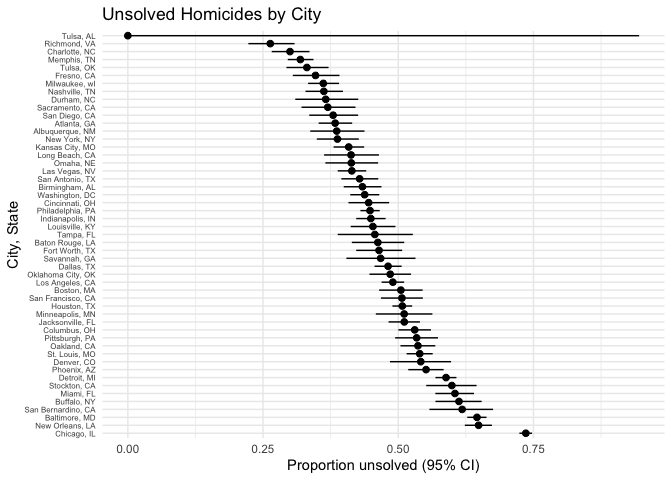
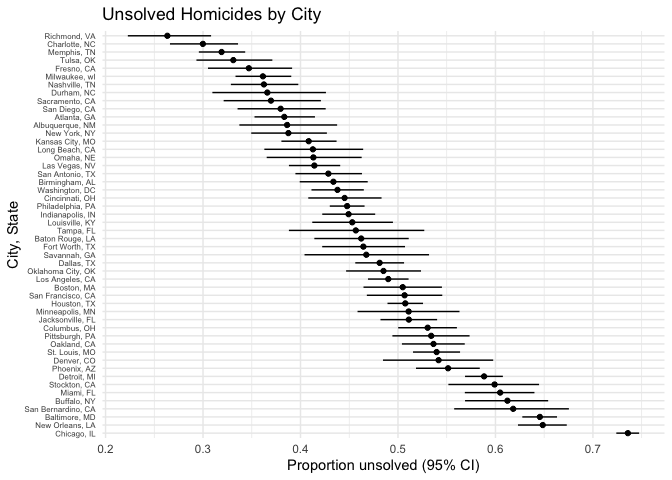
11.14 v1

diff --git a/p8105_hw5_xl3054.md b/p8105_hw5_xl3054.md
@@ -162,7 +162,8 @@ the average is close to the true value.
 
 ``` r
 homicide = read_csv("data/homicide-data.csv") %>% 
-  janitor::clean_names()
+  janitor::clean_names() %>%
+  filter(!(city == "Tulsa" & state == "AL"))
 ```
 
     ## Rows: 52179 Columns: 12
@@ -174,10 +175,13 @@ homicide = read_csv("data/homicide-data.csv") %>%
     ## ℹ Use `spec()` to retrieve the full column specification for this data.
     ## ℹ Specify the column types or set `show_col_types = FALSE` to quiet this message.
 
-The `homicide` dataset has 52179 observations of criminal homicides over
-past decade in 50 cities in the US and 12 variables describing the
-demographic information of each victim, ID, date, location of each case,
-and whether an arrest was made.
+In the original `homicide` dataset, there are 52,179 observations of
+criminal homicides over past decade in 51 cities in the US. However,
+there is one observation with city “Tulsa” and state “AL”, which is not
+a real existed city in Alabama. After removing this row, there are 52178
+observations of criminal homicides in 50 cities in the US. There are 12
+variables describing the demographic information of each victim, ID,
+date, location of each case, and whether an arrest was made.
 
 ``` r
 city_unsolved = homicide %>% 
@@ -203,7 +207,7 @@ city_unsolved %>%
 ``` r
 # all cities
 city_results = city_unsolved %>%
-  mutate(test = purrr::map2(unsolved, total, ~ suppressWarnings(prop.test(.x, .y))),
+  mutate(test = purrr::map2(unsolved, total, ~prop.test(.x, .y)),
          tidy = purrr::map(test, broom::tidy)) %>%
   unnest(tidy) %>%
   select(city_state, estimate, conf.low, conf.high) %>% 
@@ -264,7 +268,6 @@ city_results %>% knitr::kable(digits = 4)
 | Memphis, TN        |   0.3190 |   0.2957 |    0.3433 |
 | Charlotte, NC      |   0.2999 |   0.2661 |    0.3359 |
 | Richmond, VA       |   0.2634 |   0.2229 |    0.3083 |
-| Tulsa, AL          |   0.0000 |   0.0000 |    0.9454 |
 
 ``` r
 # plot
@@ -272,7 +275,7 @@ city_results %>%
   arrange(desc(estimate)) %>%
   mutate(city_state = factor(city_state, levels = city_state)) %>%
   ggplot(aes(x = estimate, y = city_state)) +
-  geom_point(size = 2) +
+  geom_point(size = 1.5) +
   geom_errorbarh(aes(xmin = conf.low, xmax = conf.high), height = 0) +
   labs(x = "Proportion unsolved (95% CI)", y = "City, State",
        title = "Unsolved Homicides by City") +
